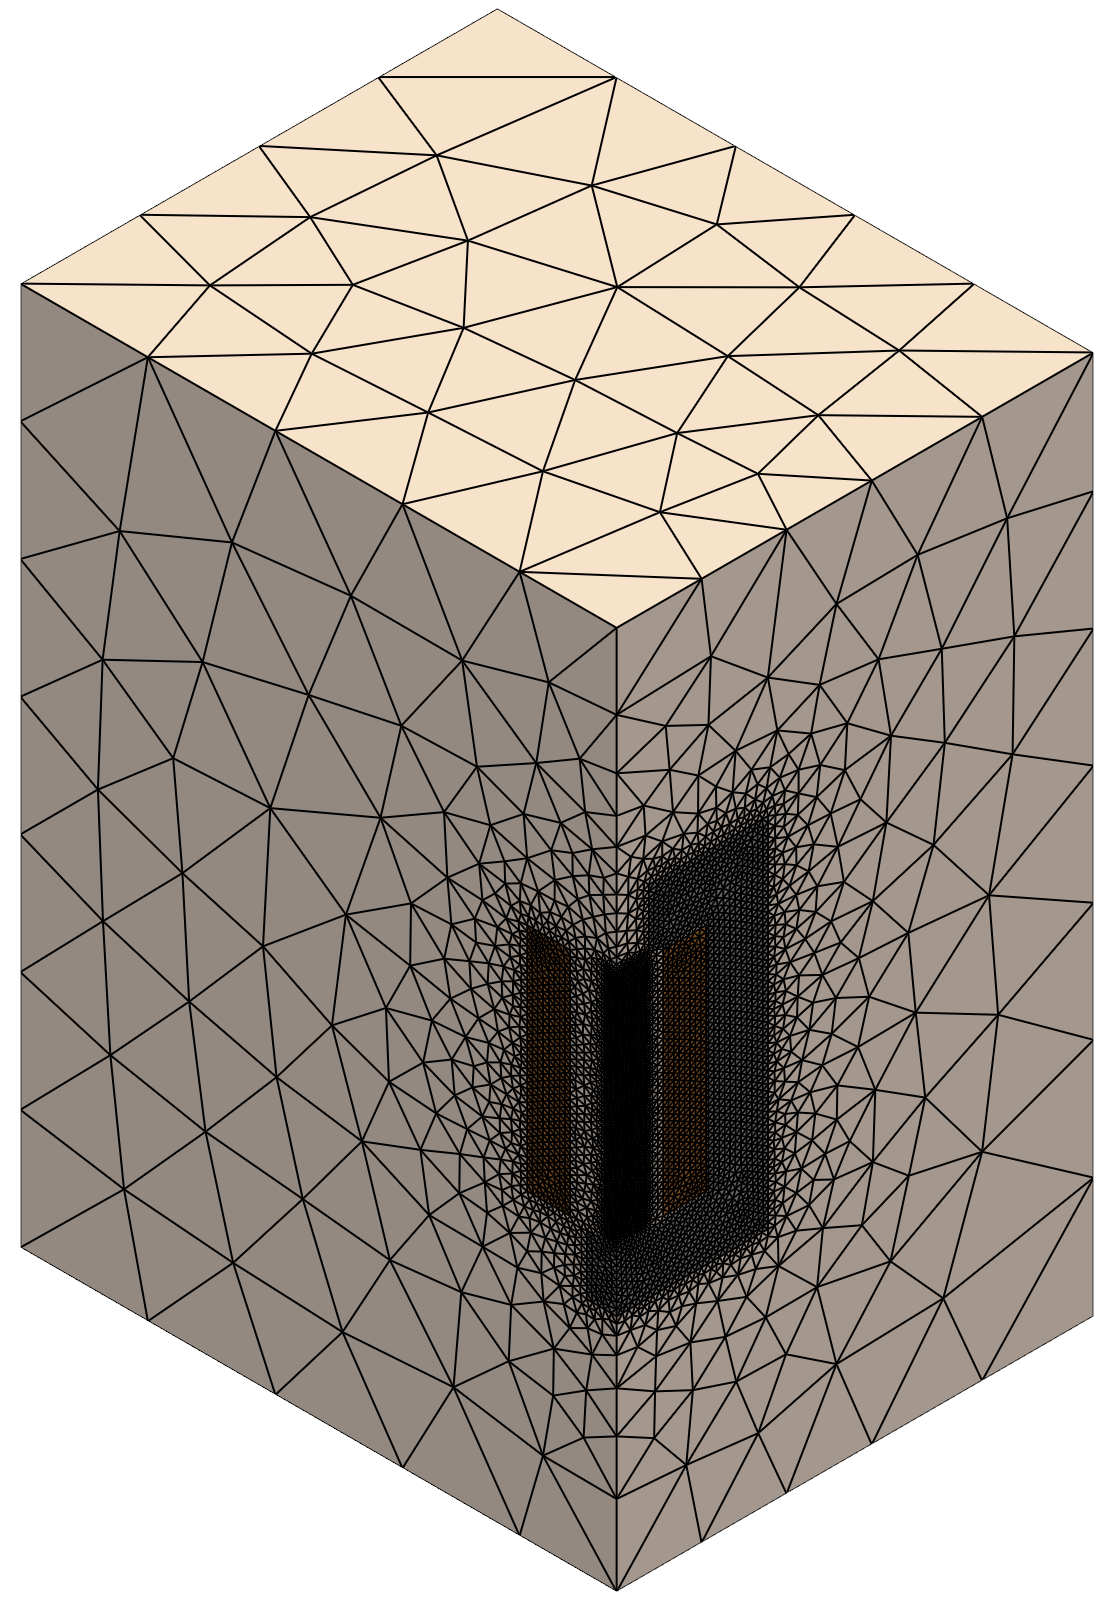
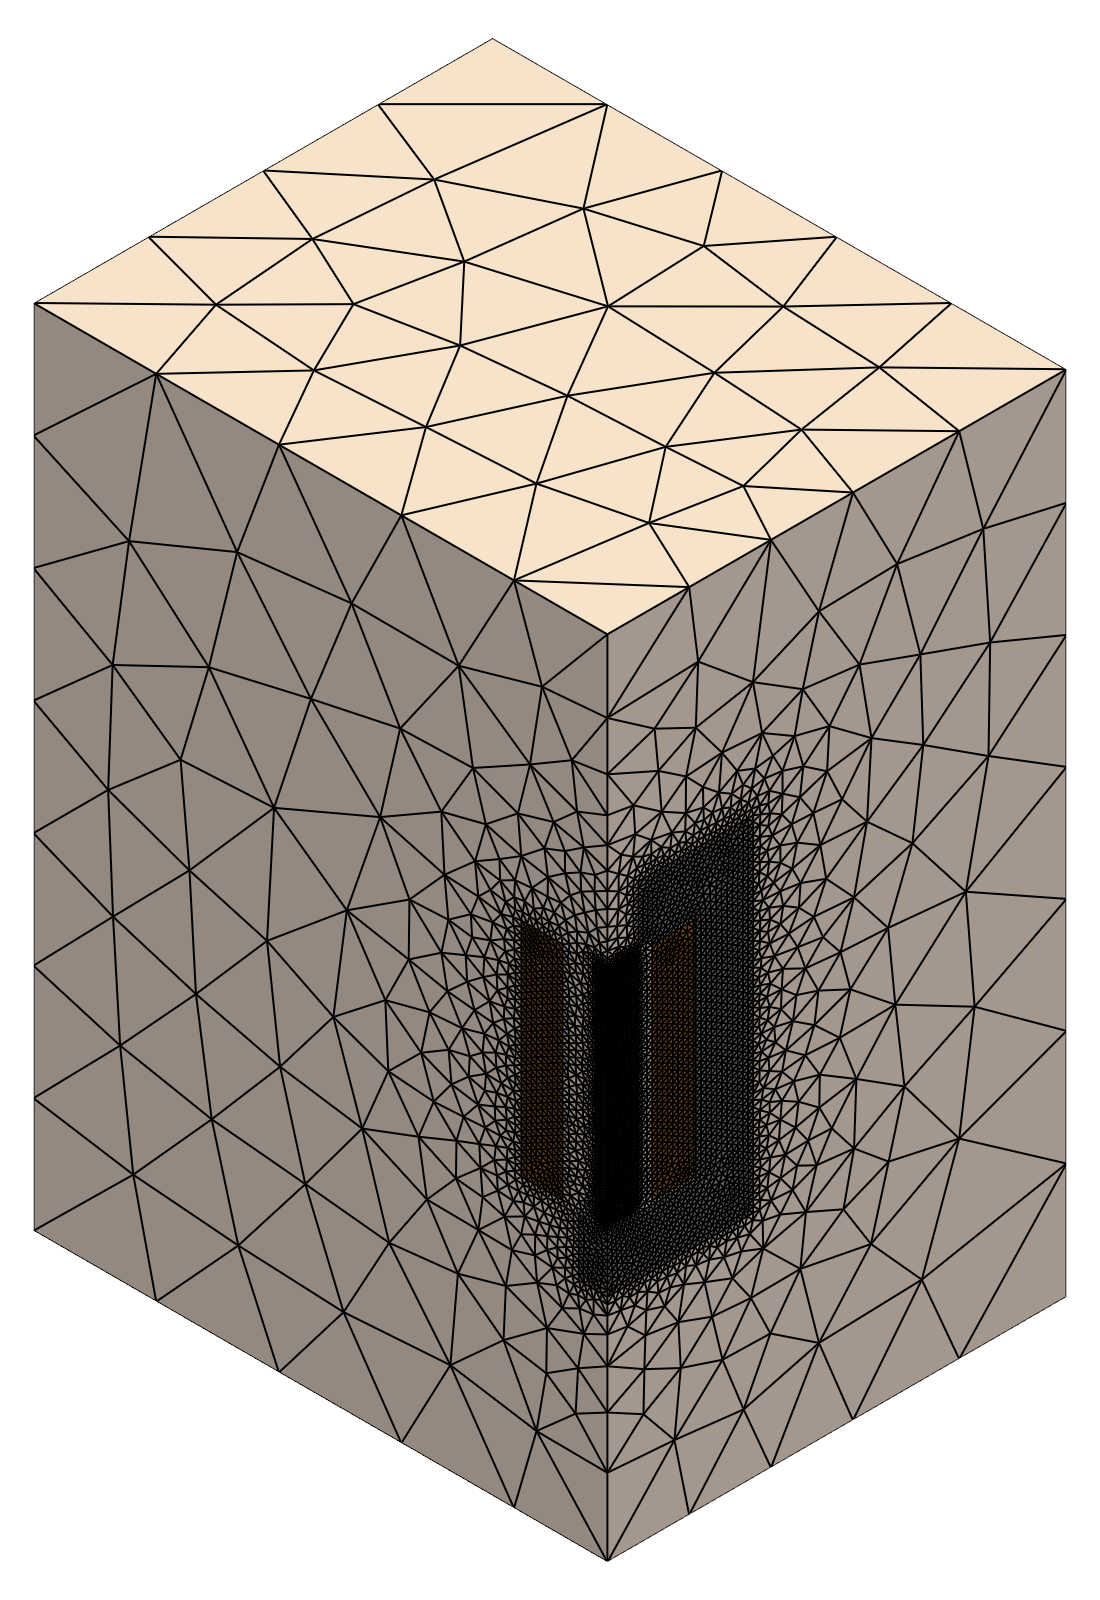
Save scenes at window size and use PyVista's camera fit

Changed region(s): [[0.0, 0.0, 0.9891, 1.0]]

diff --git a/Electromagnetics/Compumag-Team20-3D-Static-Force-Problem/case.py b/Electromagnetics/Compumag-Team20-3D-Static-Force-Problem/case.py
@@ -272,19 +272,20 @@ class Team20StaticForce(ValidationCase):
         bodies = FieldExportReader(self.dir_path).read()
 
         # Mesh of all bodies.
-        plotter = pv.Plotter(theme=theme, off_screen=True, window_size=(1600, 1600))
+        plotter = pv.Plotter(theme=theme, off_screen=True, window_size=(1100, 1600))
         iron, copper, air = (0.6, 0.6, 0.6), (0.72, 0.45, 0.2), (0.96, 0.89, 0.83)
         for name, color in {"Air": air, "Yoke": iron, "Pole": iron, "Coil": copper}.items():
             plotter.add_mesh(bodies[name], color=color, show_edges=True)
         plotter.view_vector((-1, -1, 1), viewup=(0, 0, 1))
+        plotter.camera.zoom(1.4)  # the default fit leaves room for any rotation
         save(plotter, self.dir_path / "data" / "Mesh.png")
 
         # Magnetic flux density in the yoke, the pole and the coil.
         del bodies["Air"]
-        plotter = pv.Plotter(theme=theme, off_screen=True, window_size=(1100, 1600))
+        # The window leaves room on both sides, for the color bar on the right.
+        plotter = pv.Plotter(theme=theme, off_screen=True, window_size=(1100, 1200))
         actor = plotter.add_mesh(bodies, scalars="Magnetic Flux Density", clim=(0.0, 2.5))
         plotter.view_vector((-1, -1, 1), viewup=(0, 0, 1))
-        plotter.camera.zoom(0.85)  # room for the color bar
         add_colorbar(plotter, actor, "Magnetic Flux Density [T]", n_labels=6)
         save(plotter, self.dir_path / "data" / "Vis_MagneticFluxDensity.png")
 

diff --git a/casekit/pyvista_scene.py b/casekit/pyvista_scene.py
@@ -32,7 +32,6 @@ from vtkmodules.vtkCommonDataModel import vtkCompositeDataSet
 from vtkmodules.vtkIOXML import vtkXMLPartitionedDataSetCollectionReader
 from vtkmodules.vtkRenderingAnnotation import vtkScalarBarActor
 
-from casekit.images import trim
 from casekit.plots import PlotStyle
 
 # DejaVu Sans (see fonts/LICENSE_DEJAVU), the font of the matplotlib plots; VTK's own fonts
@@ -205,9 +204,9 @@ def xy_chart(
 
 
 def save(plotter: pv.Plotter, path: Path):
-    """Screenshot of `plotter` without its white margins; closes the plotter."""
+    """Screenshot of `plotter` (the size of its window); closes the plotter."""
     Path(path).parent.mkdir(parents=True, exist_ok=True)
-    trim(Image.fromarray(plotter.screenshot())).save(path)
+    plotter.screenshot(path)
     plotter.close()
 
 

diff --git a/Electromagnetics/Compumag-Team20-3D-Static-Force-Problem/README.md b/Electromagnetics/Compumag-Team20-3D-Static-Force-Problem/README.md
@@ -158,7 +158,7 @@ As an outlook, the paper [3] suggests investigating the effect of model order an
 The case saves the fields at $`I=5`$ A for further evaluation with e.g. [mufem-scenes](https://raiden-numerics.github.io/mufem-scenes/) or [ParaView](https://www.paraview.org/).
 
 <div align="center">
-<img src="data/Vis_MagneticFluxDensity.png" alt="drawing" width="45%">
+<img src="data/Vis_MagneticFluxDensity.png" alt="drawing" width="75%">
 <br/>
 <br/>
 <em>Figure 5: The magnetic flux density at I=5 A. At the corner of the center pole the magnitude of the magnetic flux density exceeds the values of the provided B-H table requiring extrapolation.</em>
